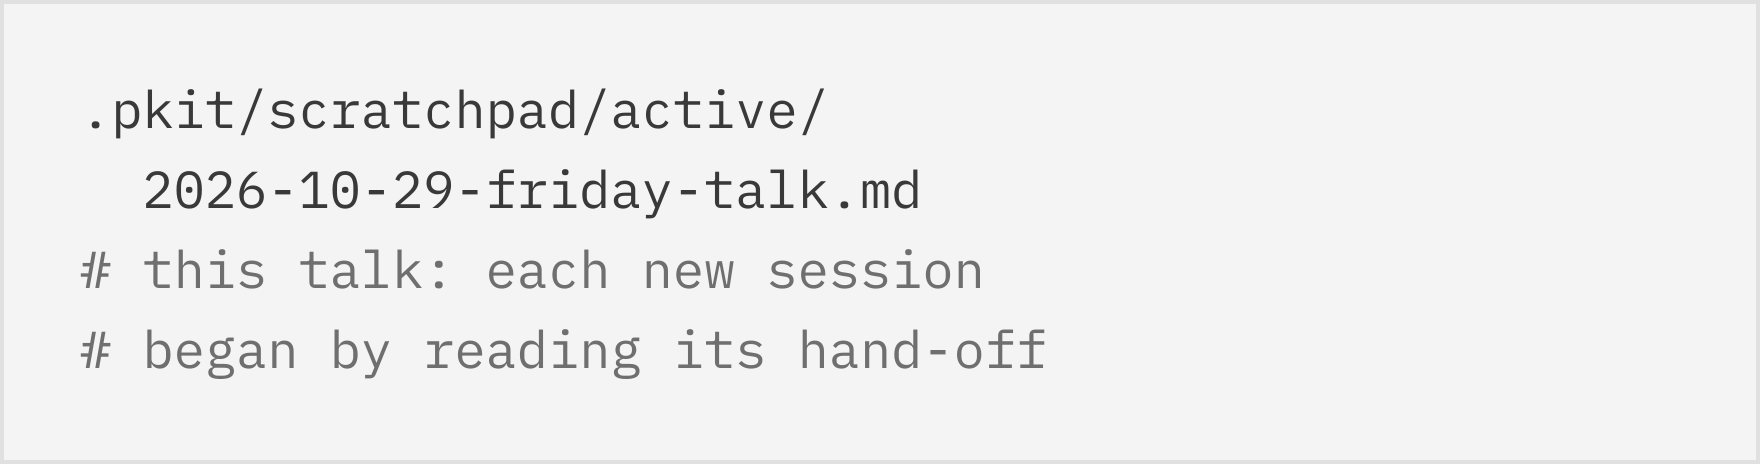
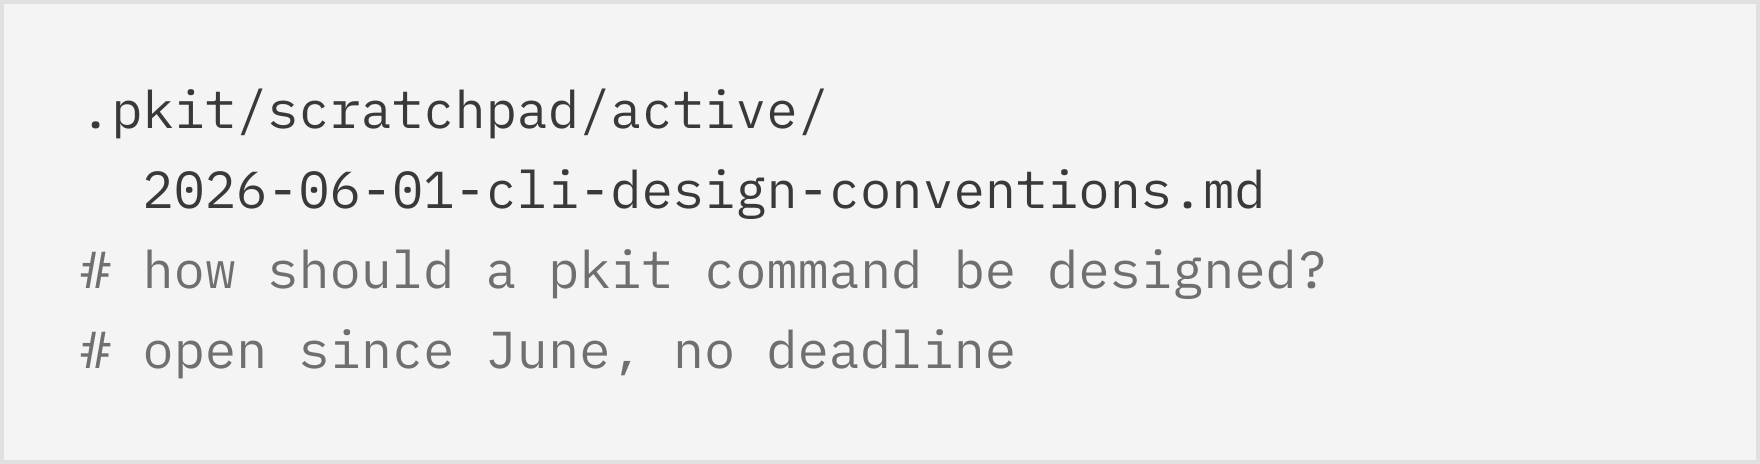
docs(scratchpad): the slides stand on their own, never citing the talk
"Where ideas start" shows an open project note instead of the talk's own,
and "What every session is told" says what the agent does instead of
pointing at the slide before.

diff --git a/.pkit/scratchpad/active/2026-10-29-friday-talk.md b/.pkit/scratchpad/active/2026-10-29-friday-talk.md
@@ -43,12 +43,13 @@ The work moves to another clone from here. Everything it needs is on branch `doc
 **The deck's style (decided 29 October).**
 
 - Length: 30 minutes, 17 slides (the slides file's `minutes`). The talk follows the pyramid, read from its top left down to its foot (the maintainer, 29 October): where ideas start, decisions, working rules · schemas · processes, skills · agents · permissions, pkit's commands and checks, your code and documents. So Part 1 is Where ideas start → Decision records → Decided once, found later → What every session is told → Rules and processes as data, and "Checked every time" moved to Part 2, after Permissions and before the docs slide, whose minute it took (3 → 2). Its lead now says "the ties between files", since the release guide was shown four slides earlier, and its limit leads into the docs slide: "It checks that every tie leads somewhere, not that the document is still right." Part 1 is "From idea to rule" (renamed from "What the agent knows" by the maintainer, 29 October), the path its five slides take.
-- "Where ideas start" (added 29 October, 1 minute; reworked the same evening). The maintainer listed what it could stress, and chose, on the agent's recommendation: first, a note outlives the session, so what you agreed is not lost at the context limit (this talk is the proof: each new session began by reading this note's hand-off); and what the note becomes, records, issues or docs. Shown smaller: where notes live (`.pkit/scratchpad/active/`) and that a note waits without a deadline (in the note's box; the lead had no room for it). In the notes only: a note is a file in the repository, read by colleagues and every agent; a done note keeps how a decision was reached; three commands and no status field. The lead: "In conversation. A scratchpad note keeps what you agreed past the session, until it becomes records, issues or docs." The picture keeps its style, a flow that branches: a conversation, the note (this talk's), and, large on the right, what it becomes, each with a real example: decision records (COR-041 and ADR-040, from a note of 3 July, the dark box, like the pyramid's apex), issues (14, one big feature planned), docs (10 use cases and 2 journeys from one note); dropped is a small grey box below. The counts, from the 28 done notes' `produced` lists: 41 records, 31 issues, 15 docs, and a schema, a pull request and a milestone. The limit no longer counts long-open notes as a weakness (waiting is the point, the maintainer): "Nothing writes the note for you: what stays only in the conversation is lost with it." The generator's `ideas` kind draws it.
-- "What every session is told" (rebuilt 30 October). It shows the end state of Feature #2270, "The operational rules are short, stable and layered", as the maintainer chose, with the speaker notes saying what is live: on main since 29 October, the rules as a loaded rule set with permanent ids, statuses and origins and a generated loaded file (#2260, COR-068, ADR-075); in review, the size budget (#2262), the rule on when a record starts (#2258), and rules about files looked up with `pkit rule-sets reach` (#2273, #2274); not started, each capability's own loaded rules (#2269) and the trim (#2261). Capabilities' rules stay off the slide, as DEC records did, until the capabilities are introduced. The lead: "A few short rules on how to work, pkit's and yours. Each rule names the decision behind it." It follows the slide before, whose limit says only records tied to a file are found: records are read when something changes, and a few rules are loaded into every session. The picture: a slice of the pyramid in its colours, in plain words, since the records' own wording was too hard to follow (the maintainer, 30 October): the decision (COR-065: an agent reads the records only when it changes something, not in every session), the rule every session gets (rule 22: before you change files, read the records behind them), what the agent does (that is why, on the slide before, it looked up the release guide's records); beside it a terminal of what a session loads (`core.md`, pkit's, purple; `project.md`, yours, blue) and what it looks up when needed (`pkit refs records-for`, `pkit rule-sets reach`). Its limit leads into the next slide: "A rule is advice: an agent can still break it." The generator's `rules` kind draws it, reusing the pyramid's layers (`level_h`).
+- "Where ideas start" (added 29 October, 1 minute; reworked the same evening). The maintainer listed what it could stress, and chose, on the agent's recommendation: first, a note outlives the session, so what you agreed is not lost at the context limit; and what the note becomes, records, issues or docs. Shown smaller: where notes live (`.pkit/scratchpad/active/`) and that a note waits without a deadline (in the note's box; the lead had no room for it). In the notes only: a note is a file in the repository, read by colleagues and every agent; a done note keeps how a decision was reached; three commands and no status field. The lead: "In conversation. A scratchpad note keeps what you agreed past the session, until it becomes records, issues or docs." The picture keeps its style, a flow that branches: a conversation, the note (`2026-06-01-cli-design-conventions.md`, how a pkit command should be designed, open since June: the talk's own note was the example until the maintainer ruled that out on 30 October), and, large on the right, what it becomes, each with a real example: decision records (COR-041 and ADR-040, from a note of 3 July, the dark box, like the pyramid's apex), issues (14, one big feature planned), docs (10 use cases and 2 journeys from one note); dropped is a small grey box below. The counts, from the 28 done notes' `produced` lists: 41 records, 31 issues, 15 docs, and a schema, a pull request and a milestone. The limit no longer counts long-open notes as a weakness (waiting is the point, the maintainer): "Nothing writes the note for you: what stays only in the conversation is lost with it." The generator's `ideas` kind draws it.
+- "What every session is told" (rebuilt 30 October). It shows the end state of Feature #2270, "The operational rules are short, stable and layered", as the maintainer chose, with the speaker notes saying what is live: on main since 29 October, the rules as a loaded rule set with permanent ids, statuses and origins and a generated loaded file (#2260, COR-068, ADR-075); in review, the size budget (#2262), the rule on when a record starts (#2258), and rules about files looked up with `pkit rule-sets reach` (#2273, #2274); not started, each capability's own loaded rules (#2269) and the trim (#2261). Capabilities' rules stay off the slide, as DEC records did, until the capabilities are introduced. The lead: "A few short rules on how to work, pkit's and yours. Each rule names the decision behind it." It follows the slide before, whose limit says only records tied to a file are found: records are read when something changes, and a few rules are loaded into every session. The picture: a slice of the pyramid in its colours, in plain words, since the records' own wording was too hard to follow (the maintainer, 30 October): the decision (COR-065: an agent reads the records only when it changes something, not in every session), the rule every session gets (rule 22: before you change files, read the records behind them), what the agent does (before it changes a file, it runs `pkit refs records-for` and reads what it lists); beside it a terminal of what a session loads (`core.md`, pkit's, purple; `project.md`, yours, blue) and what it looks up when needed (`pkit refs records-for`, `pkit rule-sets reach`). Its limit leads into the next slide: "A rule is advice: an agent can still break it." The generator's `rules` kind draws it, reusing the pyramid's layers (`level_h`).
 - The opening ("Why pkit?") pairs each common practice with pkit's opinion: four rows, a grey problem box (pictogram, what usually happens) and a light purple answer box (pictogram, what pkit asks you to do, the part of the talk), joined by bold purple arrows. The maintainer's point: projects do not usually keep decisions, conventions, tied docs or written permissions; pkit's value is its opinion that they should.
 - One style for anything shown as a command line: a light terminal panel (`#F4F4F4`, border `#E0E0E0`), IBM Plex Mono; prompt and `#` comments grey, the command green (`#198038`), its arguments near black. In a listing, what is pkit's is purple (`#6929C4`) and what is yours blue (`#0043CE`), with a legend line.
 - Something to take away (such as `pkit visibility private` on the install slide) is a yellow note: light yellow box, yellow bar on its left, a dark-yellow pictogram, a question as heading, a small terminal and one line.
 - Slides done in this style: "Why pkit?", "Install pkit" (the commands; the full tree of what `pkit init` creates, taken from a real install, `.claude/` shown as yours with pkit's added; the visibility note), "Decision records" and "Decided once, found later". The maintainer split the decisions slide in two on 29 October, since the audience will ask how COR, PRJ and ADR differ. The first says what a record is, and that where it lives says what it is about and who may change it. It shows three kinds as columns, each in its own colour (COR purple, as pkit's is purple in the install slide's legend; PRJ blue for yours; ADR green, the map's `role_architecture`, so it reads apart from PRJ, the maintainer), in two groups whose paths are chips in the terminal style (`chip_png` in the generator): "How work is done" under `.pkit/decisions/` (COR, pkit's principles, and PRJ, your way of working, side by side), then "What you build" (ADR, your architecture, at a path you choose). Each column says what the kind decides, shows a real file, and says why it lives apart. The reason for three places is two questions, what a record is about and who may change it, so the slide must not look like needless complexity (the maintainer). Counts are in the notes, not on the slide: where and why matter more. DEC records wait for the capabilities, which the audience has not met yet; the project-management slide's notes name them. The second carries the takeaway "decided once, found later" as one record's story, PRJ-002, in three cards joined by arrows, each with its picture inside it (the maintainer could not connect steps and pictures kept apart): the agent drafts it (the record, `status: proposed`, and, to be transparent about where the later lookup's tie comes from, the release guide's front matter gaining `record: [PRJ-002]`, as COR-065 point 6 asks of a document that carries a record out; the maintainer, 29 October), you accept it (the pull request's one-line change, as a diff), a later session finds it (`pkit refs records-for .pkit/release/README.md`, which names PRJ-002 directly, beside records of the other two kinds). No DEC or capability appears before the capabilities slides. The lookup reads the anchors files declare (COR-050 point 2), which "Docs that know when they're wrong" shows later; the notes name it. "Checked every time" follows (rebuilt 29 October; the maintainer wanted a different picture to keep the room's attention): the lead is "An agent follows the ties without doubting them, so every tie is checked on every change." The picture is the same release guide's web of ties, read from its front matter: the seven files it describes on the left, grey, and the six records it carries out on the right, in their kinds' colours. A refactor renames `scripts/latest_tag.py` to `last_tag.py`, and two documents still name the old file: the guide and use case UC-008, which ties to the same script; both ties are red and dashed. Beside it, a terminal: the rename, then the change check's real output (`pkit friction check`: two `dead-anchor path scripts/latest_tag.py`, `Result: failed`). The first version showed a typo, PRJ-002 written PRJ-020; the maintainer read it as a record removed and its tie left behind, and asked whether it was the best showcase (29 October). A rename is: it happens in every refactor, it breaks a tie in a file the person renaming never opens, and the check finds a document they would not think of. Checked on 29 October in a throwaway copy: before the rename `pkit refs records-for scripts/latest_tag.py` finds the guide's six records and the use case's seven; after it, `records-for scripts/last_tag.py` finds none, so the next agent to change the file reads no decision. `pkit validate` leaves dead path and whole-record ties to the two friction checks by design (`friction_validate.py`'s module docstring); the whole-repository check, `pkit friction check --all`, reports one already on main, so no bug was filed. The generator's `ties` kind draws the web as a template made for the slide (`EXTRA_TEMPLATES`).
+- The talk never uses itself as content (the maintainer, 30 October): no "the slide before", no "this talk", and no story of how the talk was prepared, on a slide or in its notes. Each slide stands on its own, with examples from the project's work.
 - Keep the flow (the maintainer, 29 October). Each slide is the next step of one story: read its title aloud, then its lead. The lead answers the title and follows from the slide before, and the slide's main visual shows that answer, big enough to read from the room. Read every changed slide this way, with the one before it, before pushing. Counts are main's on 29 October: COR 39 at the end of June, 67 now; PRJ 11 and ADR 74 in project-kit; DEC 83.
 
 **In review: "How pkit fits together", slide 2, before "Install pkit" (swapped by the maintainer, 29 October; the part is now "pkit at a glance").** The maintainer asked for it on 29 October: the audience should see how pkit's parts rest on each other, with the decisions at the top, before the slides take the folders one by one. Its ground is COR-065 (accepted): where an accepted record decides, the rest of the system is its projection; a disagreement is read first as the projection falling short; a record changes only when a person accepts a new one; scratchpad notes come before a record. It is in the slides file (`fits`, the generator's `pyramid` kind) and on the board, and its wording awaits the maintainer's review. It follows the design below, with these changes: "Working rules" for "Rules" (the slides file's vocabulary); "checked first" for "fixed first" (COR-065 point 4); "carries out" for "is the projection of"; plain heads beside real arrows; the bottom line names this week's COR-065; no limit line, which would pass the footer, so the weak spot (hand-made layers can lag) is in the notes. The lead answers the title instead (the maintainer, 29 October: read aloud after "How pkit fits together?", the proposed lead was no answer): "In five layers, from your decisions down to your code: each carries out the ones above it." The proposed lead may go to the decisions slide, not yet decided. The scratchpad box became "Where ideas start: in conversation, and in a scratchpad note when one needs longer" (the maintainer: ideas are shaped in conversation too). It sits left of the apex, tinted purple, its arrow pointing right into Decisions, so the slide reads from left to right (the maintainer); the pyramid moved right and narrowed a little to make room (`center`, `top_w`, `step`), and "Carried out" and "Checked" each take half the right column. The design proposed:
